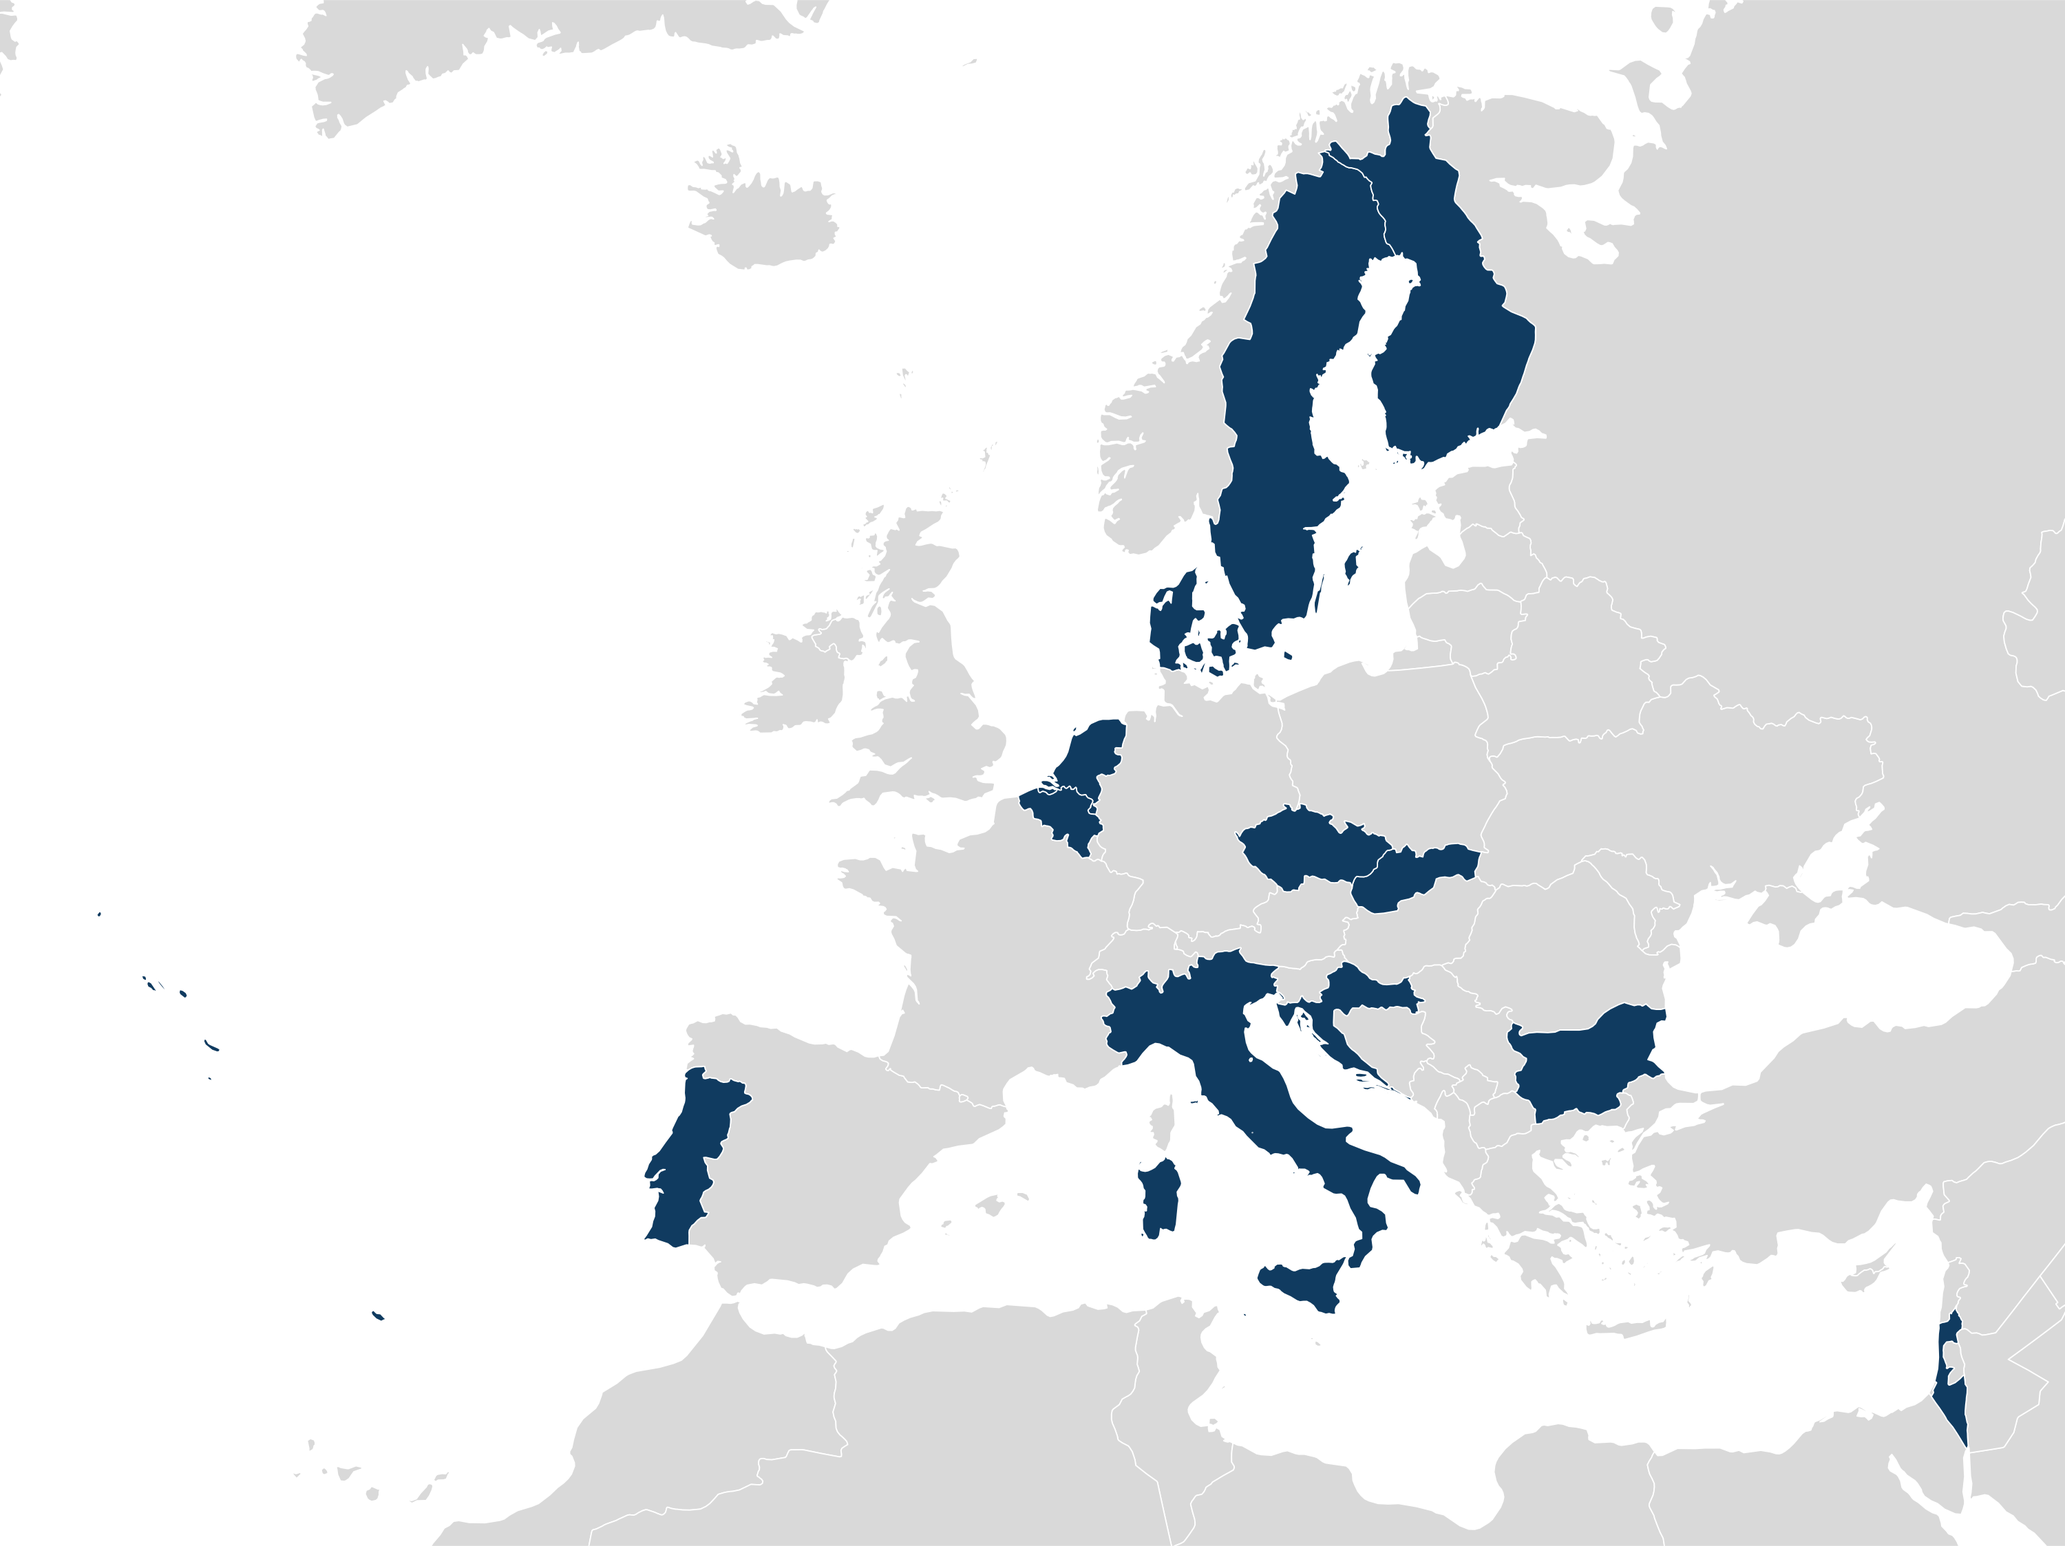
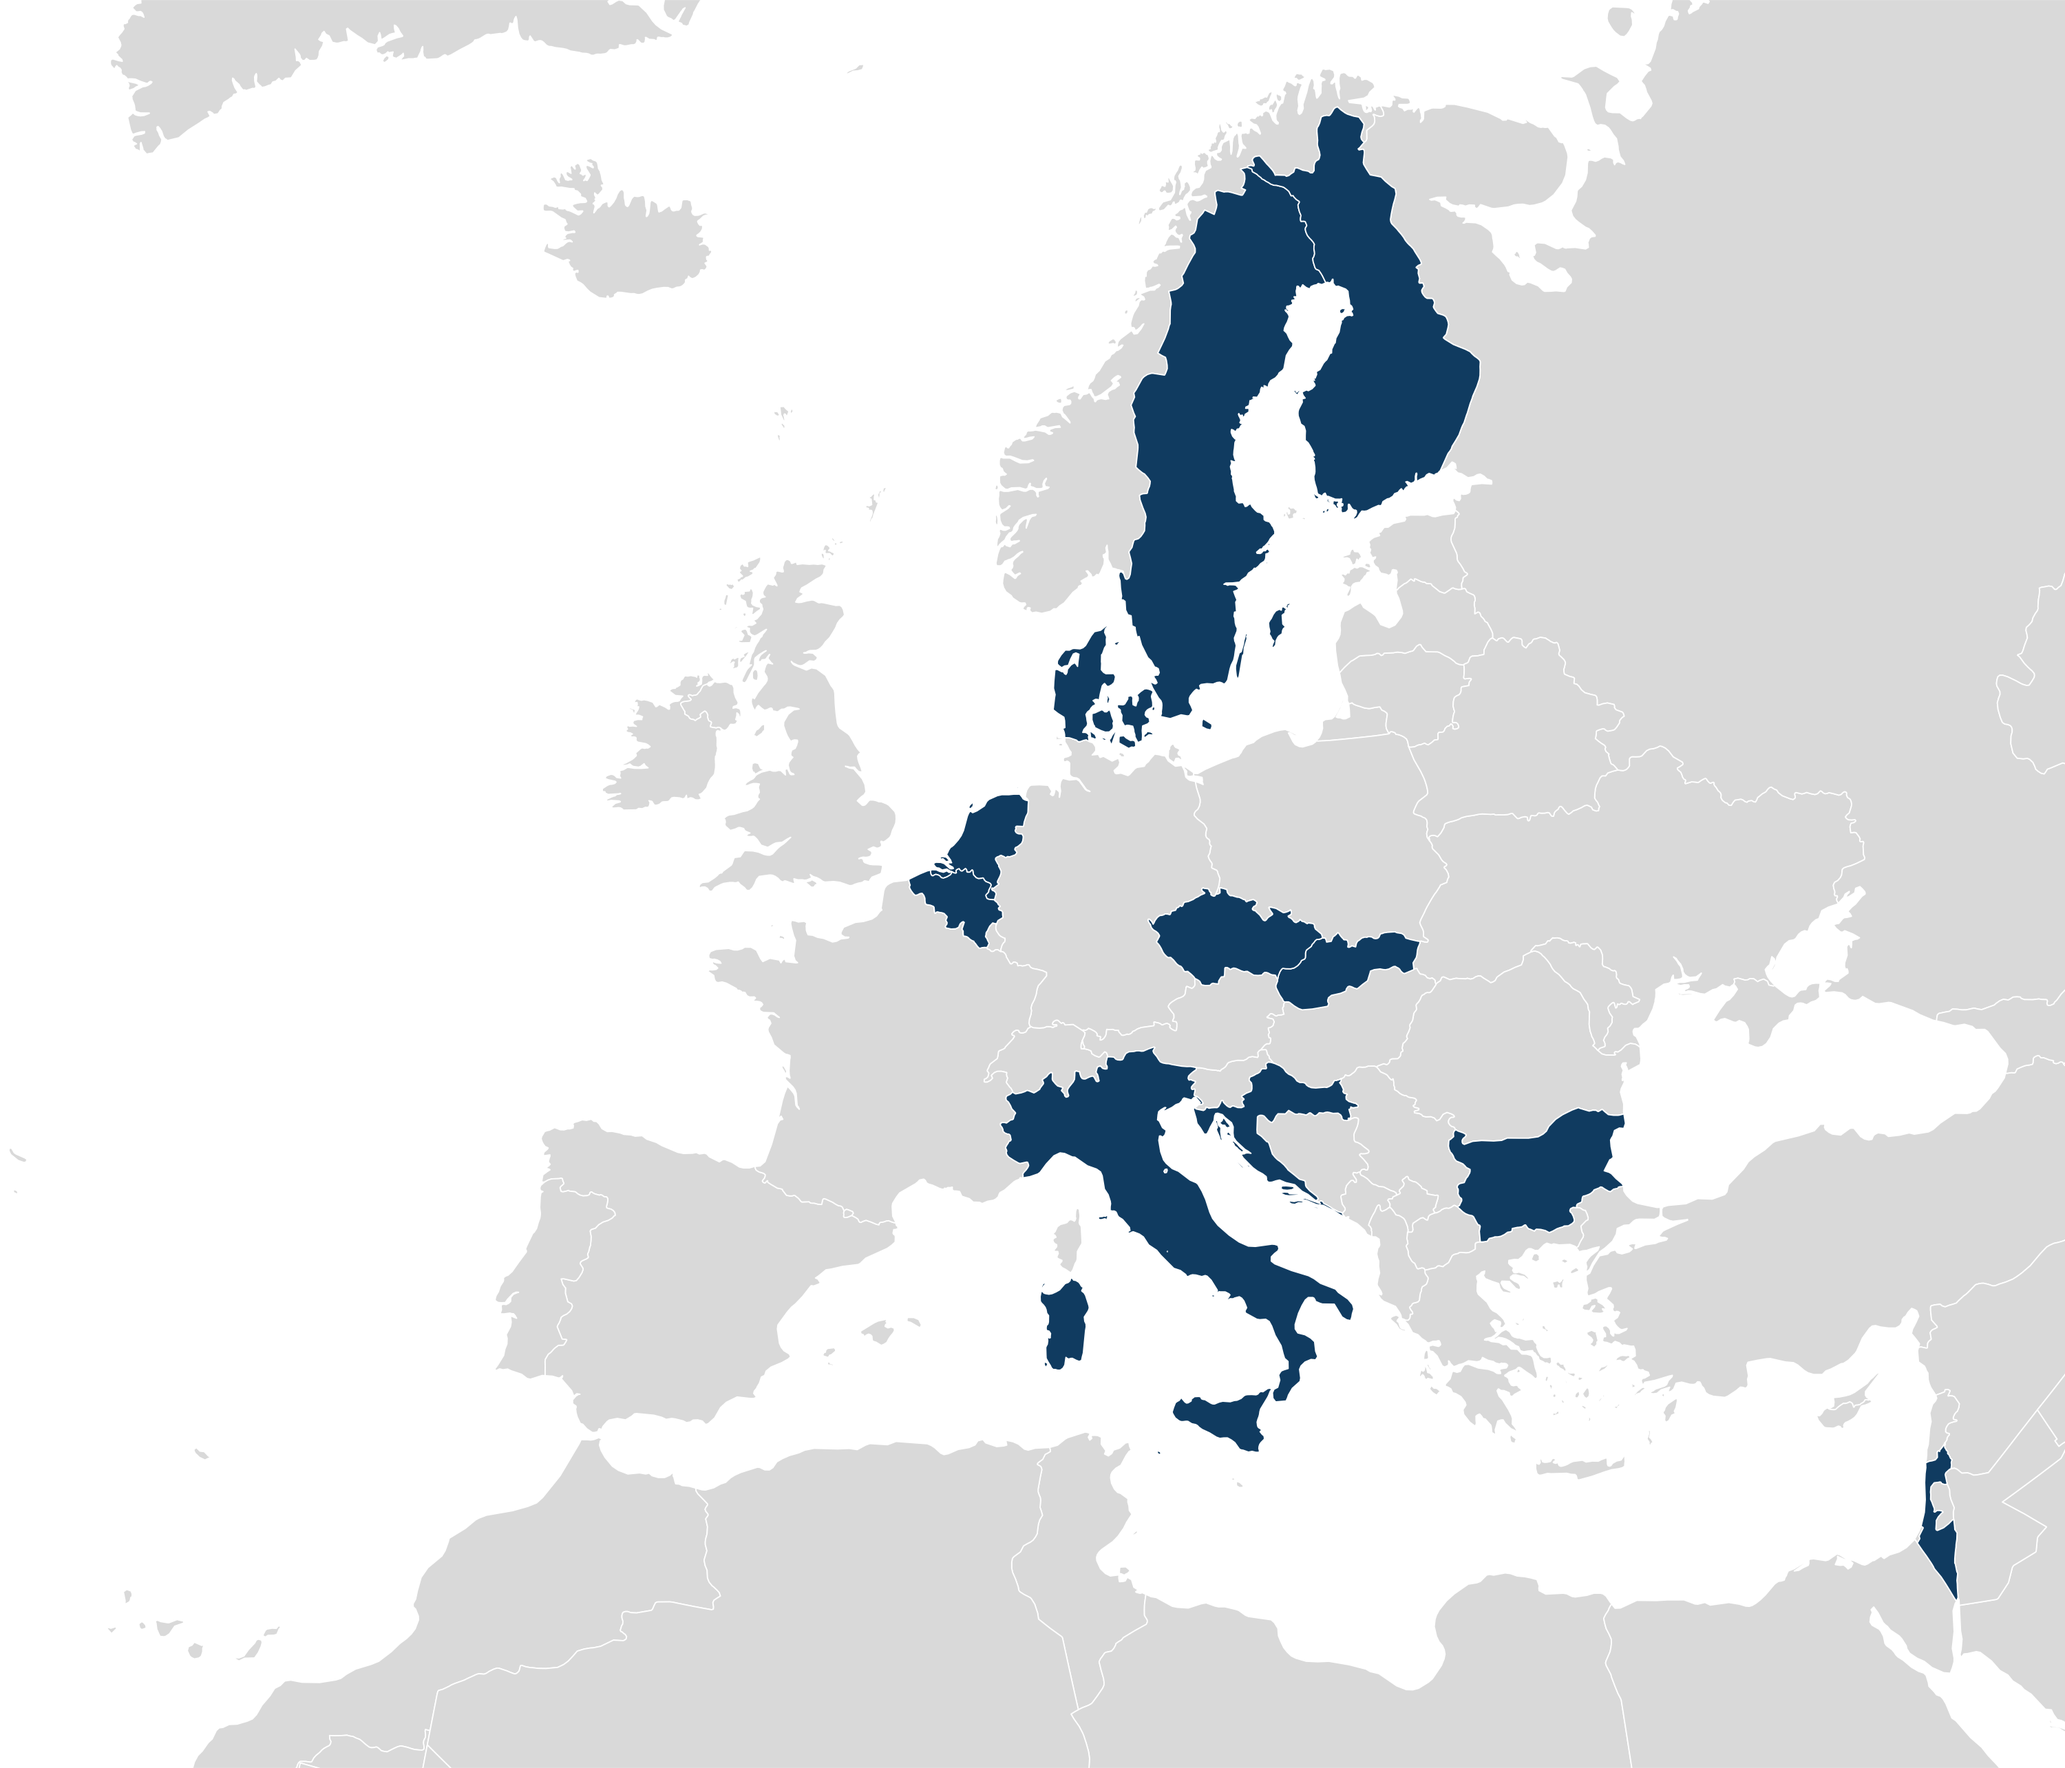
render

diff --git a/docs/partners.html b/docs/partners.html
@@ -182,7 +182,7 @@ ul.task-list li input[type="checkbox"] {
     <div>
     <div class="quarto-title-meta-heading">Modified</div>
     <div class="quarto-title-meta-contents">
-      <p class="date-modified">January 22, 2026</p>
+      <p class="date-modified">February 6, 2026</p>
     </div>
   </div>
   </div>
@@ -191,7 +191,7 @@ ul.task-list li input[type="checkbox"] {
 <div class="map-card">
 <section id="active-partners-involved" class="level3 map-card-text">
 <h3 data-anchor-id="active-partners-involved">Active partners involved</h3>
-<p>The pilot is coordinated by the Nature Conservation Agency of the Czech Republic and involves partners from twelve countries: Belgium (Flanders), Bulgaria, Czechia, Croatia, Denmark, Finland, Israel, Italy (Autonomous Province of Bolzano), Portugal, the Netherlands, Slovakia, and Sweden.</p>
+<p>The pilot is coordinated by the Nature Conservation Agency of the Czech Republic and involves partners from twelve countries: Belgium (Flanders), Bulgaria, Czechia, Croatia, Denmark, Finland, Israel, Italy (Autonomous Province of Bolzano), the Netherlands, Slovakia, and Sweden.</p>
 </section>
 <div class="map-card-image">
 <div class="map-wrapper">
@@ -206,7 +206,7 @@ ul.task-list li input[type="checkbox"] {
 </section>
 <section id="active-contributors" class="level3">
 <h3 data-anchor-id="active-contributors">Active contributors</h3>
-<p>🇮🇹 Eurac Research, 🇧🇬 Executive Environment Agency, 🇵🇹 Regional Fund of Science and Technology, 🇭🇷 Ministry of Environmental Protection and Green Transition, 🇫🇮 Ministry of Environment, 🇮🇱 Ministry of Environmental Protection, 🇨🇿 Nature Conservation Agency of the Czech Republic, 🇳🇱 Dutch Research Council, 🇸🇰 Slovak Academy of Sciences, 🇸🇪 Swedish Environmental Protection Agency, 🇩🇰 Agency for Green Land Use and Aquatic Environment, 🇧🇪 Research Institute for Nature and Forest</p>
+<p>🇮🇹 Eurac Research, 🇧🇬 Executive Environment Agency, 🇭🇷 Ministry of Environmental Protection and Green Transition, 🇫🇮 Ministry of Environment, 🇮🇱 Ministry of Environmental Protection, 🇨🇿 Nature Conservation Agency of the Czech Republic, 🇳🇱 Dutch Research Council, 🇸🇰 Slovak Academy of Sciences, 🇸🇪 Swedish Environmental Protection Agency, 🇩🇰 Agency for Green Land Use and Aquatic Environment, 🇧🇪 Research Institute for Nature and Forest</p>
 <p>In addition, some partners play an additional role in the sample and data analysis:<br>
 - <strong>Lab contributors:</strong> 🇨🇿 Nature Conservation Agency of the Czech Republic &amp; 🇧🇪 Research Institute for Nature and Forest<br>
 - <strong>Passive Acoustic Monitoring analysis:</strong> 🇩🇰 Agency for Green Land Use and Aquatic Environment<br>
